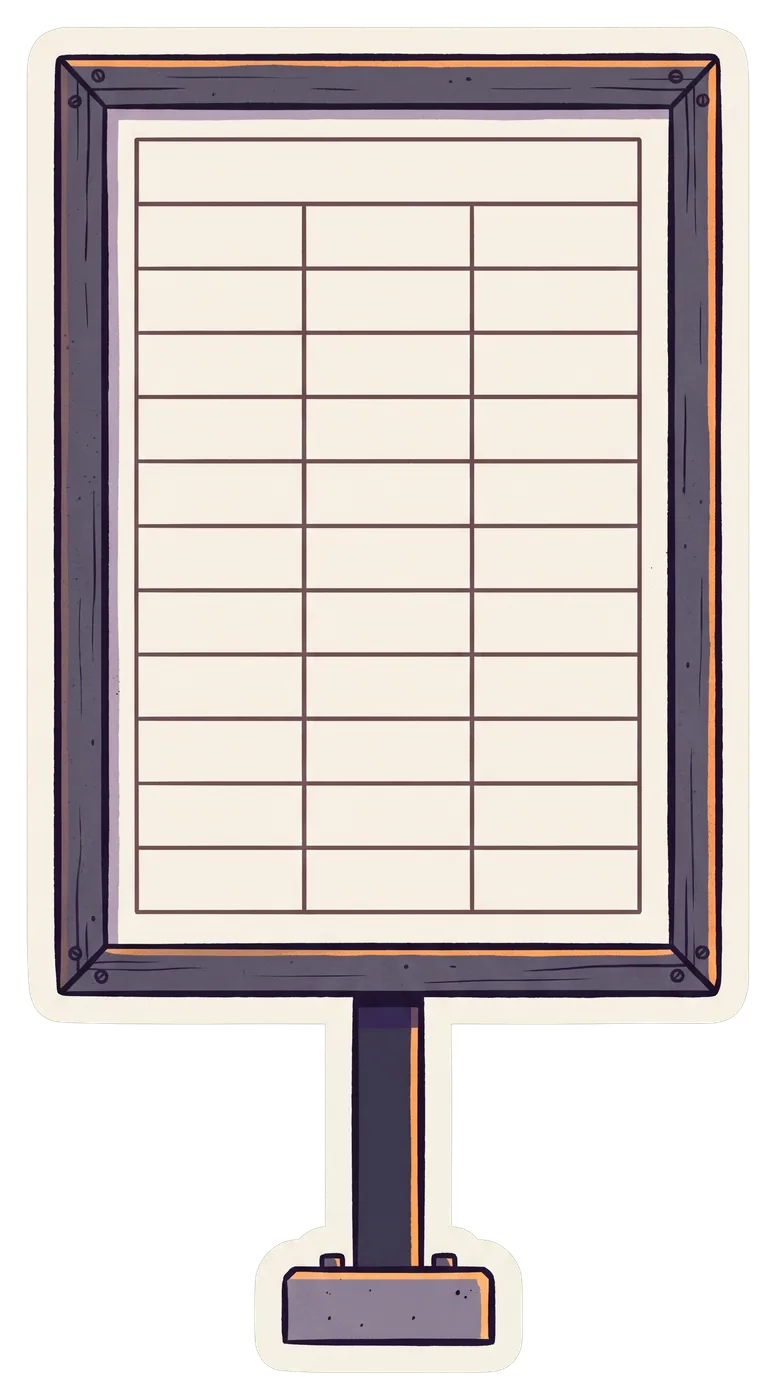
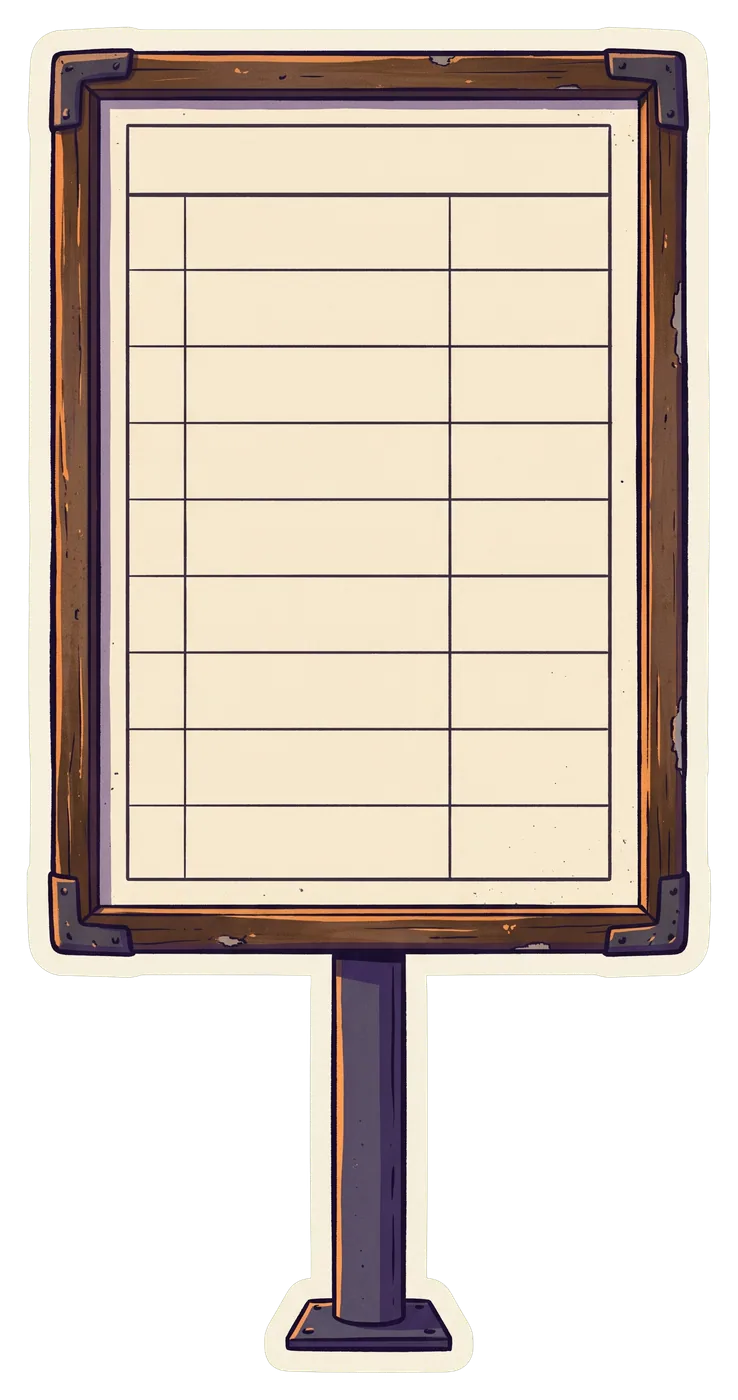
feat(site): new platform 2, lamp, timetable and train art; wide layout locked
- Platform 2: new modern platform at its real shape (no stretching). On wide
  screens it is shown twice, the second copy mirrored so the join matches,
  and sits lower behind the train.
- New lamp, timetable and train cutouts; train door at 0.62.
- Timetable: larger, moved to the front layer level with Rajesh, text
  resized to fit its face (heading shrinks to fit).
- Rajesh and the timetable swapped places on wide screens, and both are
  mirrored.
- Chai stall moved a little right.

diff --git a/apps/site/src/scene/stage.js b/apps/site/src/scene/stage.js
@@ -25,7 +25,7 @@ export const PIECES = {
   sky: { layer: 'backdrop', states: 1, fit: 'cover', variants: ['wide', 'tall'] },
   sun: { layer: 'heavens', states: 1 },
   birds: { layer: 'heavens', states: 2 },
-  platform2: { layer: 'far', states: 1, fit: 'fill' }, // stretched across the width
+  platform2: { layer: 'far', states: 1 },
   mast: { layer: 'masts', states: 1, repeat: true },
   train: { layer: 'train', states: 2 }, // A door closed, B door open
   platform1: { layer: 'platform', states: 1 },
@@ -34,7 +34,7 @@ export const PIECES = {
   ledboard: { layer: 'props', states: 1, hotspot: 'countdown' },
   kiosk: { layer: 'props', states: 1, hotspot: 'faq' },
   chai: { layer: 'props', states: 2, hotspot: 'faq' }, // the chaiwala answers questions too
-  timetable: { layer: 'props', states: 1, hotspot: 'timetable' },
+  timetable: { layer: 'cast', states: 1, hotspot: 'timetable' }, // stands in front, level with Rajesh
   rajesh: { layer: 'cast', states: 2, hotspot: 'book' }, // A standing, B waving
 };
 
@@ -49,7 +49,9 @@ export const SLOTS = {
     sky: { x: -340, y: -440, w: 2600, h: 1960 },
     sun: { x: 1480, y: 30, w: 180, h: 180 },
     birds: { x: 560, y: 40, w: 240, h: 120 },
-    platform2: { x: -340, y: 190, w: 2600, h: 230 },
+    // Shown at its real shape, twice side by side to span the width; the
+    // second copy is mirrored (scene.css) so the join reads as one platform.
+    platform2: { instances: [{ x: -340, y: 250, w: 1300, h: 280 }, { x: 960, y: 250, w: 1300, h: 280 }] },
     mast: { instances: [{ x: 45, y: 30, w: 160, h: 680 }, { x: 885, y: 30, w: 160, h: 680 }, { x: 1725, y: 30, w: 160, h: 680 }] },
     train: { h: 470, bottom: 830, doorX: 910 },
     // Wider and taller than the screen on purpose: its top surface hides the
@@ -59,16 +61,16 @@ export const SLOTS = {
     lamp: { instances: [{ x: 170, y: 150, w: 240, h: 680 }, { x: 1400, y: 150, w: 240, h: 680 }] },
     nameboard: { x: -70, y: 410, w: 600, h: 490 },
     ledboard: { x: 800, y: 0, w: 460, h: 260 },
-    timetable: { x: 1210, y: 370, w: 270, h: 560 },
-    chai: { x: 1430, y: 400, w: 500, h: 610 },
+    timetable: { x: 460, y: 390, w: 320, h: 640 },
+    chai: { x: 1490, y: 400, w: 500, h: 610 },
     kiosk: { x: 1630, y: 330, w: 520, h: 510 },
-    rajesh: { x: 520, y: 430, w: 300, h: 600 },
+    rajesh: { x: 1145, y: 430, w: 300, h: 600 },
   },
   tall: {
     sky: { x: -240, y: -340, w: 1560, h: 2600 },
     sun: { x: 780, y: 160, w: 240, h: 240 },
     birds: { x: 80, y: 440, w: 220, h: 110 },
-    platform2: { x: -240, y: 620, w: 1560, h: 190 },
+    platform2: { x: -240, y: 474, w: 1560, h: 336 },
     mast: { instances: [{ x: 0, y: 370, w: 130, h: 640 }, { x: 480, y: 370, w: 130, h: 640 }, { x: 960, y: 370, w: 130, h: 640 }] },
     train: { h: 560, bottom: 1320, doorX: 600 },
     platform1: { x: -2056, y: 1038, w: 5192, h: 1222 },

diff --git a/apps/site/src/styles/scene.css b/apps/site/src/styles/scene.css
@@ -598,7 +598,7 @@
   white-space: nowrap;
   border-bottom: 1px solid rgba(42, 32, 52, 0.25);
 }
-.ov-tt__when { font-weight: 800; color: #b3263e; min-width: 5.6em; }
+.ov-tt__when { font-weight: 800; color: #b3263e; min-width: 5.2em; flex: none; }
 .ov-tt__what { overflow: hidden; text-overflow: ellipsis; }
 
 /* Boards turned slightly inward, like signs seen at an angle: the name
@@ -606,8 +606,7 @@
 .piece--nameboard,
 .piece--timetable { perspective: calc(900px * var(--u, 1)); }
 .piece--nameboard > .piece__boil { rotate: y 28deg; transform-origin: 0% 50%; }
-.piece--timetable > .piece__boil { rotate: y -26deg; transform-origin: 100% 50%; }
-.piece--platform2 .cut { object-fit: fill; }
+.piece--timetable > .piece__boil { rotate: y 26deg; transform-origin: 0% 50%; }
 
 /* Inverses of the swap animations, for drawing A. */
 @keyframes stage-swap-inv {
@@ -637,3 +636,12 @@
   95% { opacity: 0.4; }
   96%, 100% { opacity: 0; }
 }
+
+/* Platform 2 on wide screens: the second copy is a mirror image, so the two
+   copies meet on matching edges. */
+.piece--platform2[data-index="1"] .cut { transform: scaleX(-1); }
+
+/* Rajesh and the timetable face the other way (mirrored art). The timetable's
+   text overlay is not mirrored, only its board image. */
+.piece--rajesh .cut,
+.piece--timetable .cut { transform: scaleX(-1); }

diff --git a/apps/site/src/scene/Overlays.jsx b/apps/site/src/scene/Overlays.jsx
@@ -161,11 +161,13 @@ export function TimetableText({ box, u }) {
   ].slice(0, f.rows);
   return (
     <div className="ov ov-tt" style={boxStyle(b, u)} aria-hidden="true">
-      <div className="ov-tt__head" style={{ fontSize: px(h * 0.075) }}>
-        <span lang="hi">{LABELS.timetable.hindi}</span> · {LABELS.timetable.english.toUpperCase()}
+      <div className="ov-tt__head">
+        <FitLine size={h * 0.07}>
+          <span lang="hi">{LABELS.timetable.hindi}</span> · {LABELS.timetable.english.toUpperCase()}
+        </FitLine>
       </div>
       {rows.map(([when, what]) => (
-        <div key={when + what} className="ov-tt__row" style={{ fontSize: px(h * 0.052) }}>
+        <div key={when + what} className="ov-tt__row" style={{ fontSize: px(h * 0.044) }}>
           <span className="ov-tt__when">{when}</span>
           <span className="ov-tt__what">{what}</span>
         </div>

diff --git a/apps/site/src/scene/overlays.js b/apps/site/src/scene/overlays.js
@@ -24,7 +24,7 @@ export const OVERLAYS = {
     pitch: 1 / 26,
   },
   // The timetable board: the cream face inside the frame.
-  timetable: { box: { x: 0.17, y: 0.1, w: 0.68, h: 0.52 }, rows: 6 },
+  timetable: { box: { x: 0.15, y: 0.08, w: 0.7, h: 0.6 }, rows: 6 },
   // Where the overhead wire hangs on each mast (the end of the arm).
   mast: { wireAt: { x: 0.5, y: 0.06 }, contactDrop: 0.06 },
   // The train's door (clickable when open), centred on the manifest `doorAt`.
